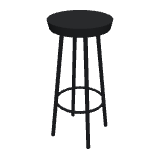
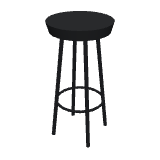
Test: a dining bench (library preview check, not to be merged)

diff --git a/frontend/render/modern.ts b/frontend/render/modern.ts
@@ -494,12 +494,16 @@ const BUILDERS: Record<string, Build> = {
     b.box(w - 0.02, 0.1, 0.02, 0, h - 0.13, back(d) + 0.02, f, 0.005);
   },
   bar_stool: (b, w, _d, h, f) => {
-    b.cyl(w * 0.45, w * 0.42, 0.05, 0, h - 0.05, 0, f, 28);
+    b.cyl(w * 0.48, w * 0.44, 0.06, 0, h - 0.06, 0, f, 28);
     for (let i = 0; i < 4; i++) {
       const a = (i / 4) * Math.PI * 2 + Math.PI / 4;
       b.rod(v(Math.cos(a) * w * 0.25, h - 0.05, Math.sin(a) * w * 0.25), v(Math.cos(a) * w * 0.45, 0, Math.sin(a) * w * 0.45), 0.012, mat(C.black));
     }
     b.add(new THREE.TorusGeometry(w * 0.37, 0.008, 6, 24), mat(C.black), 0, h * 0.32, 0).rotation.x = Math.PI / 2;
+  },
+  bench_dining: (b, w, d, h, f) => {
+    b.box(w, 0.04, d, 0, h - 0.04, 0, f, 0.008);
+    legs(b, w, d, h - 0.04, 0.08, 0.02, f);
   },
   kitchen: (b, w, d, h, f) => {
     const n = Math.max(1, Math.round(w / 0.6));

diff --git a/frontend/model/modern.ts b/frontend/model/modern.ts
@@ -84,6 +84,7 @@ export const MODERN_GROUPS: { id: string; kinds: ModernKind[] }[] = [
       k("chair_shell", "chair", [0.48, 0.53, 0.8], ["white", "black", "grey", "green", "terracotta", "sand"]),
       k("chair_wood", "chair", [0.45, 0.5, 0.8], ["oak", "walnut", "black"]),
       k("bar_stool", "stool", [0.4, 0.4, 0.75], ["black", "oak", "white"]),
+      k("bench_dining", "bench", [1.6, 0.38, 0.45], ["oak", "walnut", "black"]),
     ],
   },
   {
